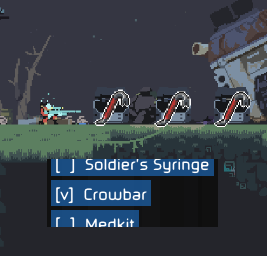
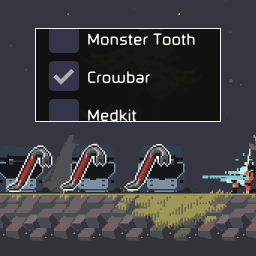
v1.0.7

diff --git a/README.md b/README.md
@@ -1,23 +1,17 @@
-Allows for selecting which items should appear in a run.  
-If a disabled item is dropped, it will be turned into a random item of the same tier.  
+Allows for toggling which items should appear in a run.  
 
-Not tested in multiplayer.
+Not tested in multiplayer, but it should use the host's settings.  
 
 ---
 
 ### Installation Instructions
-
-Install this mod through the Mod Manager:
-* Download the [Immediate Mod Manager](https://thunderstore.io/c/risk-of-rain-returns/p/ReturnOfModding/ImmediateModManager) and open it.
-* Launch the game once through Steam with the Mod Manager open to complete the setup.
-* Close the game, and install this mod along with its dependencies (`ReturnOfModding` and `HelperFunctions`) from the list on the left-hand side.
-* Launch the game by clicking the "Launch Game" button, and the mods should be loaded. Enjoy!
+Follow the instructions [listed here](https://docs.google.com/document/d/1NgLwb8noRLvlV9keNc_GF2aVzjARvUjpND2rxFgxyfw/edit?usp=sharing).  
+Join the [Return of Modding server](https://discord.gg/VjS57cszMq) for support.  
 
 
 ### Usage
-* Open the ImGUI window display (default key is `Insert`)
-* Click on any item button to toggle it on or off (while on the character select screen).
+* Open the ImGui window display (default key is `Insert`) to toggle items.
 
 
 ### Credits
-* Everybody active in the [Return of Modding server](https://discord.gg/VjS57cszMq).
+* Everybody active in the Return of Modding server.

diff --git a/CHANGELOG.md b/CHANGELOG.md
@@ -22,3 +22,7 @@
 
 ### v1.0.6
 * Fixed disabled temporary items becoming real.
+
+### v1.0.7
+* Reworked internal functionality.
+* Collapsed interface into a single ImGui window.
